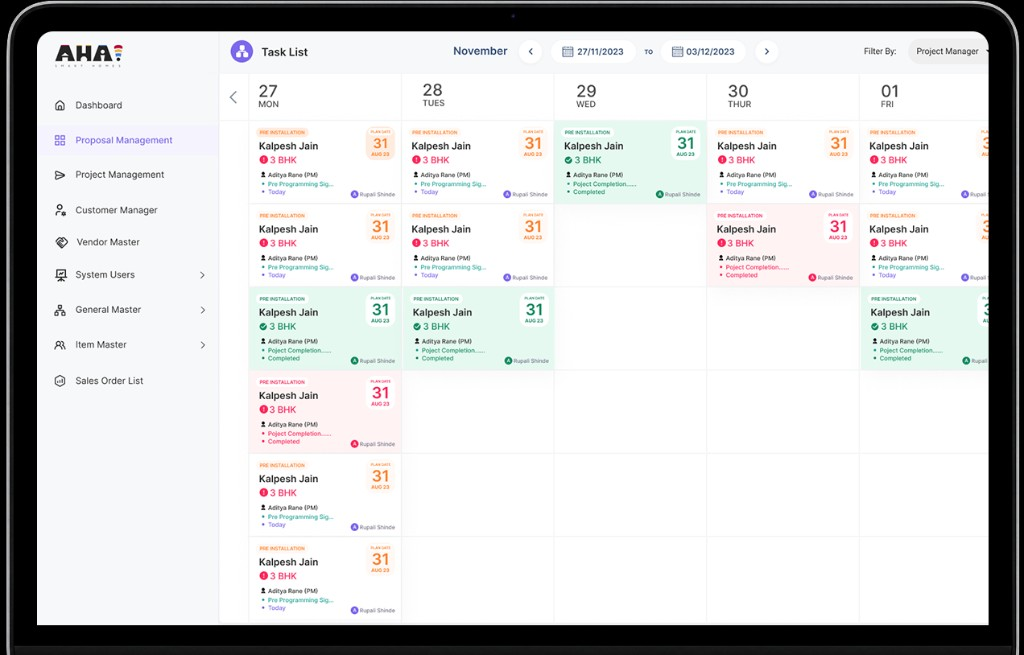
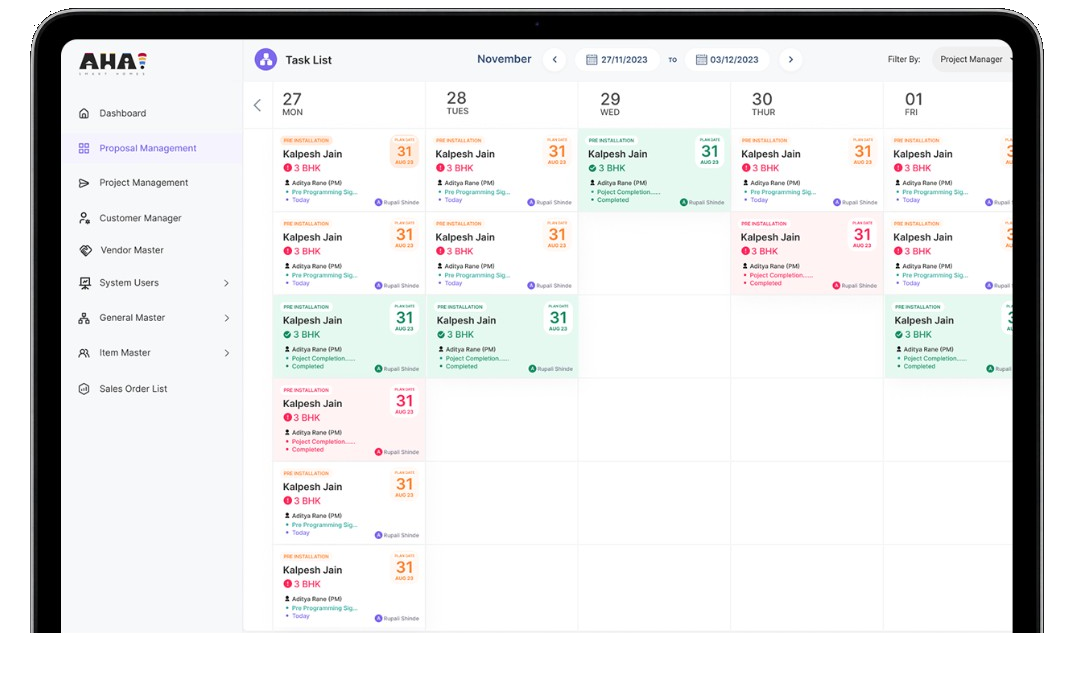
Show the AHA product and wireframes, and drop the black studio fill on the laptop shots.

Changed region(s): [[0.0, 0.0, 1.0, 1.0], [0.3438, 0.1221, 0.4688, 0.3053], [0.5, 0.3359, 0.5312, 0.3664]]

diff --git a/src/CaseStudyAhaSaas.tsx b/src/CaseStudyAhaSaas.tsx
@@ -124,7 +124,7 @@ const lifecycle = [
     emoji: "👤",
     title: "Customer on file",
     copy: "Lead from Meta ads, then a call, then a demo. After that the customer is saved on the job with the electrical plan, instead of in three places.",
-    img: "/assets/cs-aha-life-1.png",
+    img: "/assets/cs-aha-life-1.png?v=3",
     alt: "Upload electrical layout plan in Proposal Management",
   },
   {
@@ -132,7 +132,7 @@ const lifecycle = [
     emoji: "📐",
     title: "HA diagram: devices and price",
     copy: "The consultant places devices on the floor plan, estimates the price, and generates the PDF that goes out on WhatsApp.",
-    img: "/assets/cs-aha-life-2.png",
+    img: "/assets/cs-aha-life-2.png?v=3",
     alt: "Sales Order Management HA diagram with devices on a floor plan",
   },
   {
@@ -140,7 +140,7 @@ const lifecycle = [
     emoji: "📦",
     title: "Inventory",
     copy: "Procurement handles stock for this job, including anything the site visit added.",
-    img: "/assets/cs-aha-life-3.png",
+    img: "/assets/cs-aha-life-3.png?v=3",
     alt: "Device Manager add-devices form with pricing",
   },
   {
@@ -148,7 +148,7 @@ const lifecycle = [
     emoji: "🏠",
     title: "Site visit, then tasks",
     copy: "Engineer and PM check each point on site. Then the PM assigns daily work in the SaaS. The client still follows the WhatsApp group.",
-    img: "/assets/cs-aha-life-4.png",
+    img: "/assets/cs-aha-life-4.png?v=3",
     alt: "Task List weekly calendar for installation planning",
   },
   {
@@ -156,7 +156,7 @@ const lifecycle = [
     emoji: "🛠",
     title: "Install on tablet or desktop",
     copy: "Engineers mark progress on the same job. If the accountant shows amount pending, some devices are not installed.",
-    img: "/assets/cs-aha-life-5.png",
+    img: "/assets/cs-aha-life-5.png?v=3",
     alt: "Customer Project Plan with task status updates",
   },
   {
@@ -164,7 +164,7 @@ const lifecycle = [
     emoji: "💳",
     title: "Money on this job",
     copy: "Accounts sees received vs pending here, then emails, posts on the WhatsApp group, or calls. Full payment unlocks handover.",
-    img: "/assets/cs-aha-life-7.png",
+    img: "/assets/cs-aha-life-7.png?v=3",
     alt: "Payment Summary with milestone status",
   },
   {
@@ -172,7 +172,7 @@ const lifecycle = [
     emoji: "🏁",
     title: "Closed / deal won",
     copy: "Management watches the portfolio. After handover, the job is marked closed or deal won. That is the company’s close, not an automated client email.",
-    img: "/assets/cs-aha-life-6.png",
+    img: "/assets/cs-aha-life-6.png?v=3",
     alt: "Project Management overview of project progress",
   },
 ];
@@ -405,6 +405,13 @@ export function CaseStudyAhaSaas() {
           </div>
         </section>
 
+        <figure className="cs-aha-product">
+          <img
+            src="/assets/cs-aha-product.png?v=4"
+            alt="AHA SaaS Sales Order Management on a laptop, HA diagram for a living area"
+          />
+        </figure>
+
         <section className="cs-block">
           <Seq n="01">The problem</Seq>
           <p>
@@ -528,26 +535,43 @@ export function CaseStudyAhaSaas() {
           </p>
           <img
             className="cs-figure"
-            src="/assets/cs-aha-ia.png?v=2"
+            src="/assets/cs-aha-ia.png?v=3"
             alt="Card sorting boards exploring information architecture across three groupings"
           />
         </section>
 
         <section className="cs-block">
-          <Seq n="06">Design system</Seq>
+          <Seq n="06">Wireframes</Seq>
+          <p>
+            Seven lo-fi frames for the job: sign in, customer, proposal, the electrical plan, the HA diagram, and the
+            task list. Structure only, before colour.
+          </p>
+          <figure className="cs-shot">
+            <a href="/assets/cs-aha-wireframes.png?v=2" target="_blank" rel="noreferrer">
+              <img
+                src="/assets/cs-aha-wireframes.png?v=2"
+                alt="AHA SaaS wireframes: sign in, customer list, customer details, proposals, electrical plan, HA diagram, and task list"
+              />
+            </a>
+          </figure>
+          <p className="cs-caption">Open the full-size sheet ↗</p>
+        </section>
+
+        <section className="cs-block">
+          <Seq n="07">Design system</Seq>
           <p>
             Six dashboards still have to feel like one company. Tokens, type, and shared components kept web and tablet
             from drifting while each home stayed role-specific.
           </p>
           <img
             className="cs-figure"
-            src="/assets/cs-aha-design-system.png?v=2"
+            src="/assets/cs-aha-design-system.png?v=3"
             alt="AHA Smart Homes design system: color foundations and brand palette"
           />
         </section>
 
         <section className="cs-block">
-          <Seq n="07">How a job moves through the product</Seq>
+          <Seq n="08">How a job moves through the product</Seq>
           <p>
             WhatsApp is still how the household sees the job. The SaaS is how AHA trusts it. Each step below is a
             screen, not a slide.
@@ -572,7 +596,7 @@ export function CaseStudyAhaSaas() {
         </section>
 
         <section className="cs-block">
-          <Seq n="08">What changed</Seq>
+          <Seq n="09">What changed</Seq>
           <p>
             After launch, teams reported about <strong>50% less operational work</strong>, and{" "}
             <strong>4+ hours</strong> back per team. That time used to go into rebuilding the job across tools.

diff --git a/src/App.tsx b/src/App.tsx
@@ -247,7 +247,7 @@ function Header() {
 
 function WorkVisual({ type }: { type: (typeof works)[number]["visual"] }) {
   const shots: Partial<Record<(typeof works)[number]["visual"], { src: string; alt: string; contain?: boolean }>> = {
-    saas: { src: "/assets/hero-aha-saas.png", alt: "AHA SaaS Sales Order Management on a laptop", contain: true },
+    saas: { src: "/assets/hero-aha-saas.png?v=3", alt: "AHA SaaS Sales Order Management on a laptop", contain: true },
     landing: { src: "/assets/img-aha-website.png", alt: "AHA Smart Homes website on a laptop" },
     prescrip: { src: "/assets/img-prescrip-app.png", alt: "Prescrip transactions app on a phone" },
     epix: { src: "/assets/img-epix-cinemas.png", alt: "Epix Cinemas website on a laptop" },

diff --git a/src/case-study.css b/src/case-study.css
@@ -647,6 +647,7 @@
   width: 100%;
   height: auto;
   margin-top: 8px;
+  background: none;
 }
 
 .cs-life-mark {
@@ -1616,6 +1617,21 @@
 .cs-aha-saas .cs-hero h1 {
   max-width: 16ch;
   text-shadow: 0 2px 24px rgba(0, 0, 0, 0.5);
+}
+
+.cs-aha-saas .cs-aha-product {
+  margin: 8px 0 48px;
+  padding: 0;
+  background: transparent;
+  border: 0;
+  box-shadow: none;
+}
+
+.cs-aha-saas .cs-aha-product img {
+  display: block;
+  width: 100%;
+  height: auto;
+  background: none;
 }
 
 .cs-aha-saas .cs-facts {
